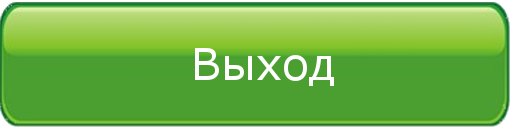
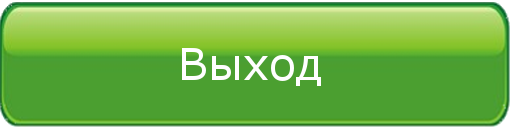
Исправлено: текстуры отдельных кнопок Добавлено: Все текстуры верно натянуты на кнопки

Changed region(s): [[0.3438, 0.375, 0.6562, 0.6875]]

diff --git a/src/MainMenu/GUI.java b/src/MainMenu/GUI.java
@@ -17,9 +17,15 @@ import static org.lwjgl.opengl.GL11.*;
 
 public class GUI {
     private static Button[] buttons;
+    //Объявим текстуры для области действия класса "Главное меню"
     private static Texture background;
-    private static Texture buttonNotActive;
-    private static Texture buttonActive;
+    private static Texture startActive;
+    private static Texture startNotActive;
+    private static Texture settingsActive;
+    private static Texture settingsNotActive;
+    private static Texture exitActive;
+    private static Texture exitNotActive;
+
     void init() {
         try {
             //Создаём окно
@@ -42,11 +48,15 @@ public class GUI {
         buttons[0] = new Button( (Display.getWidth()/2)-200, (Display.getHeight()/2)-100, (Display.getWidth()/2)+200, (Display.getHeight()/2)-25 ); //Start
         buttons[1] = new Button( (Display.getWidth()/2)-200, (Display.getHeight()/2), (Display.getWidth()/2)+200, (Display.getHeight()/2)+75); //Load
         buttons[2] = new Button( (Display.getWidth()/2)-200, (Display.getHeight()/2)+100, (Display.getWidth()/2)+200, (Display.getHeight()/2)+175 ); //Settings
-        buttons[3] = new Button( (Display.getWidth()/2)-200, (Display.getHeight()/2)+200, (Display.getWidth()/2)+200, (Display.getHeight()/2)+275 ); //Exit
+        //buttons[3] = new Button( (Display.getWidth()/2)-200, (Display.getHeight()/2)+200, (Display.getWidth()/2)+200, (Display.getHeight()/2)+275 ); //Exit
         //Грузим текстуры
-        background = textureBind("Background.png");
-        buttonActive = textureBind("newGameActive.png");
-        buttonNotActive = textureBind("newGameNotActive.png");
+        background = textureBind("Main Menu/Background.png");
+        startActive = textureBind("Main Menu/aStartButton.png");
+        startNotActive = textureBind("Main Menu/naStartButton.png");
+        settingsActive = textureBind("Main Menu/aSettings.png");
+        settingsNotActive = textureBind("Main Menu/naSettings.png");
+        exitActive = textureBind("Main Menu/aExit.png");
+        exitNotActive = textureBind("Main Menu/naExit.png");
     }
     Texture textureBind(String texName){
         Texture texture = null;
@@ -81,22 +91,40 @@ public class GUI {
         glEnd();
     }
     boolean draw(){
-        Texture button;
+        Texture button = null;
         glClear(GL_COLOR_BUFFER_BIT);
         setBackground();
-        for(int i=0; i<4; i++) {
+        for(int i=0; i<3; i++) {
             if(buttons[i].isActive(Mouse.getX(),Values.HEIGHT-Mouse.getY())) {
-                //GL11.glColor3f(0.0f, 1.0f, 0.0f);
-                button = buttonActive;
-                if (Mouse.isButtonDown(0) && (i == 3)) {
+                switch (i){
+                    case 0:
+                        button = startActive;
+                        break;
+                    case 1:
+                        button = settingsActive;
+                        break;
+                    case 2:
+                        button = exitActive;
+                        break;
+                }
+                if (Mouse.isButtonDown(0) && (i == 2)) {
                     return true;
-                }else if(Mouse.isButtonDown(0) && (i == 2)) {
+                }else if(Mouse.isButtonDown(0) && (i == 1)) {
                     Settings.Control control = new Control();
                     control.main();
                 }
             }else {
-                button = buttonNotActive;
-                //GL11.glColor3f(1.0f,0.0f,0.0f);
+                switch (i){
+                    case 0:
+                        button = startNotActive;
+                        break;
+                    case 1:
+                        button = settingsNotActive;
+                        break;
+                    case 2:
+                        button = exitNotActive;
+                        break;
+                }
             }
             button.bind();
             glBegin(GL_QUADS);
